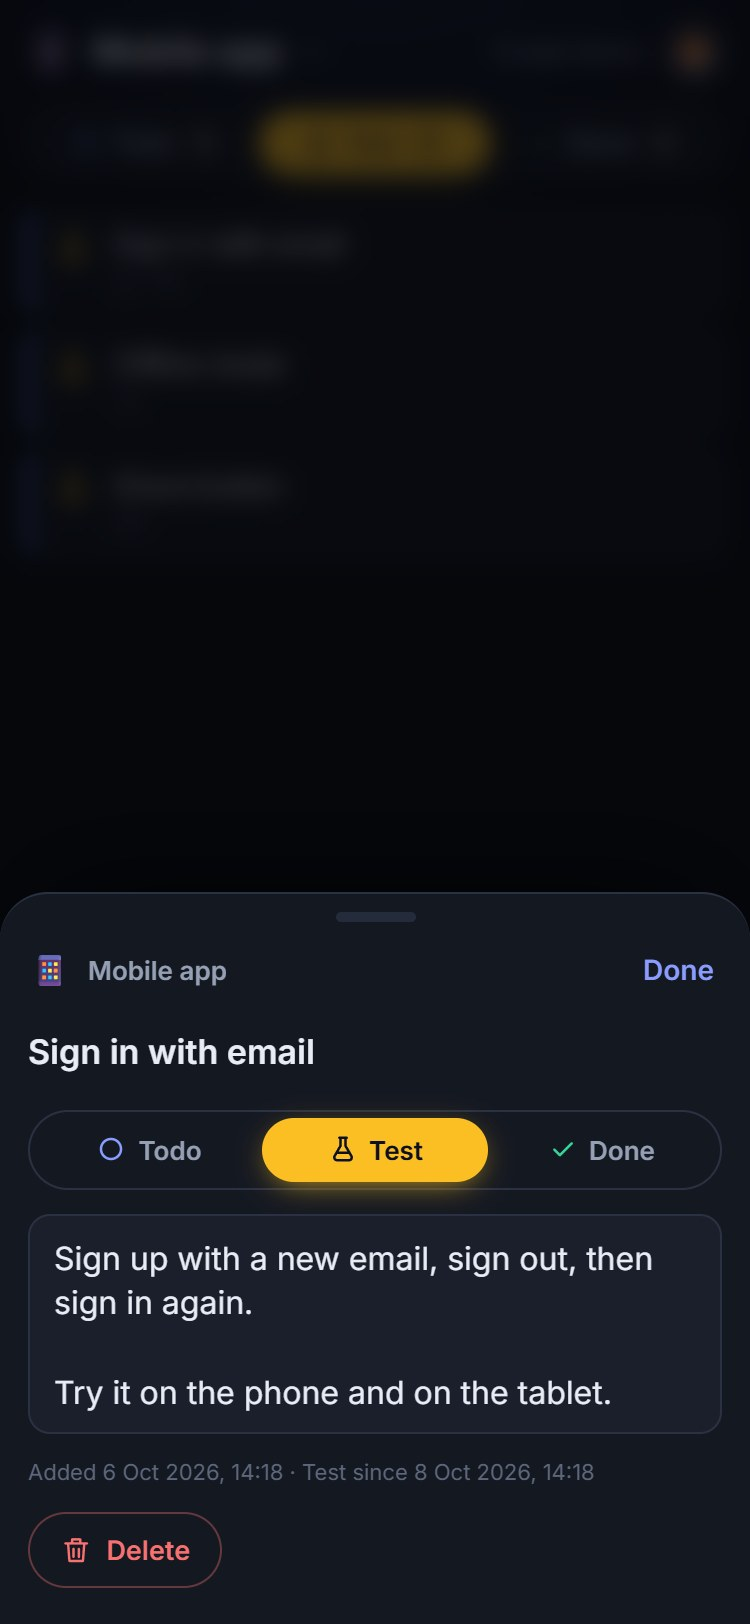
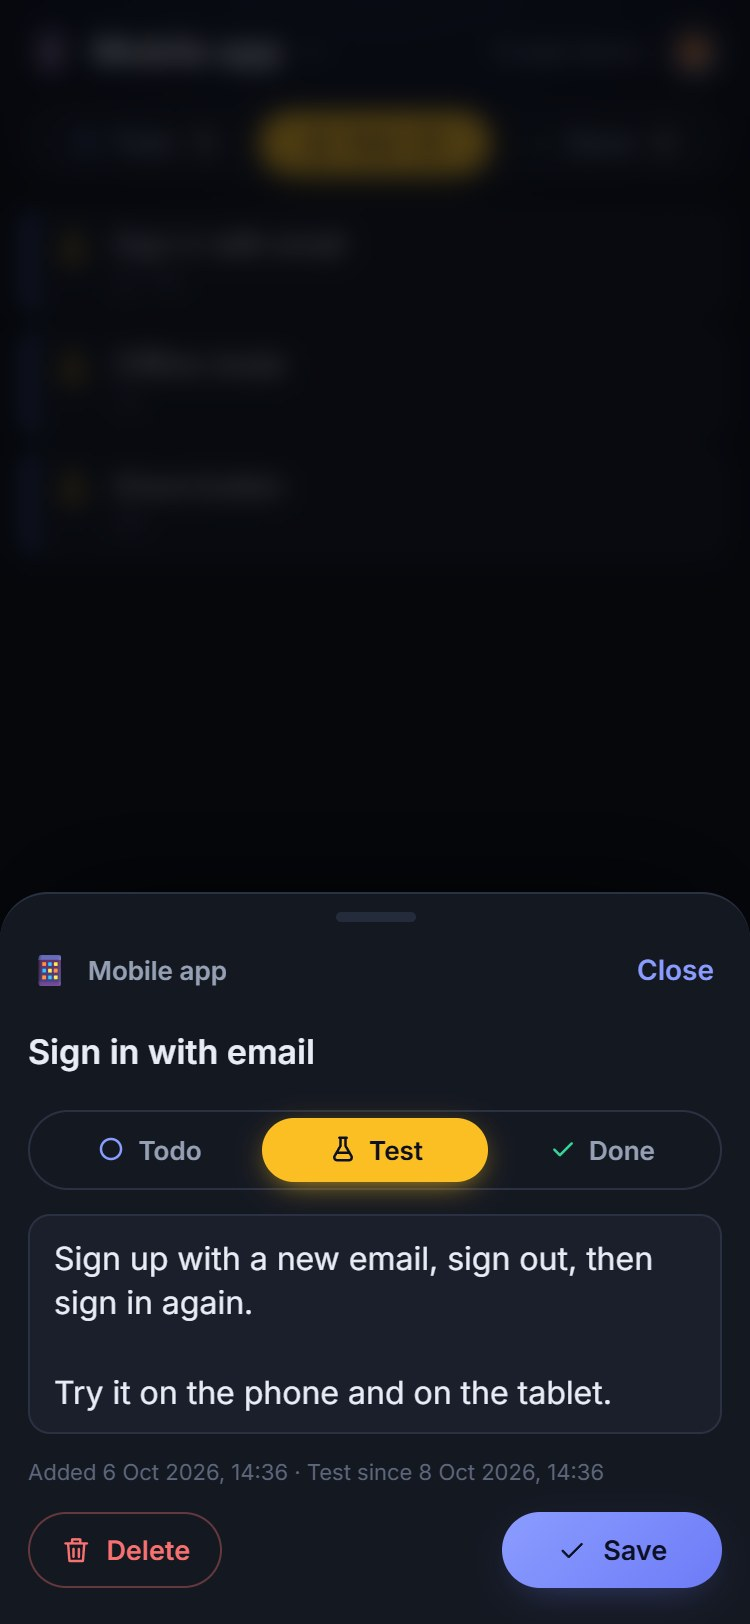
Bug fix

Changed region(s): [[0.368, 0.8929, 0.9813, 0.9852], [0.8587, 0.585, 0.92, 0.6158]]

diff --git a/project-tracker/public/js/tracker/item-sheet.js b/project-tracker/public/js/tracker/item-sheet.js
@@ -1,5 +1,6 @@
-// One item: what it says, its notes and its status (its project is shown, not changed here). Text and notes are saved
-// when the sheet closes (or the field loses focus); status and delete apply right away.
+// One item: what it says, its notes and its status (its project is shown, not changed here). Changes are kept in the
+// sheet until Save (bottom right) sends them all; Close, swiping down, back or Escape leave without saving.
+// Delete applies right away (after a second tap).
 import { sendAction } from '../shared/api.js';
 import { $, closest } from '../shared/dom.js';
 import { dateTime } from '../shared/format.js';
@@ -25,24 +26,17 @@ export function createItemSheet({ getItem, getProjects, onDeleted }) {
   const note = /** @type {HTMLTextAreaElement} */ ($('itemNote'));
   const remove = $('itemDelete');
   let itemId = null;
+  let status = 'todo';                             // the status picked here (saved with Save)
   let armed = false;
+  let saving = false;
 
-  const sheet = createSheet($('itemLayer'), { onClose: () => { save(); itemId = null; } });
-
-  let sent = { text: '', note: '' };               // what the server has (or was last sent), to send only changes
-
-  /** Sends what changed in the text fields. */
-  function save() {
-    if (!itemId || !getItem(itemId)) return;
-    const changes = {};
-    const newText = text.value.replace(/\s+/g, ' ').trim();
-    const newNote = note.value.trim();
-    if (newText && newText !== sent.text) changes.text = newText;
-    if (newNote !== sent.note) changes.note = newNote;
-    if (!Object.keys(changes).length) return;
-    sent = { ...sent, ...changes };
-    sendAction({ type: 'editItem', itemId, ...changes }).catch(toastError);
-  }
+  const sheet = createSheet($('itemLayer'), {
+    onClose: () => {
+      text.blur();
+      note.blur();
+      itemId = null;                               // not saved: what was changed is dropped
+    },
+  });
 
   function disarm() {
     armed = false;
@@ -50,13 +44,16 @@ export function createItemSheet({ getItem, getProjects, onDeleted }) {
     remove.innerHTML = `${icon('trash')}<span>Delete</span>`;
   }
 
-  /** Shows the item's current status and project (it may have changed on another screen). */
-  function render(item) {
+  function renderStatus() {
     for (const button of $('itemStatus').querySelectorAll('[data-status]')) {
-      const selected = button instanceof HTMLElement && button.dataset.status === item.status;
+      const selected = button instanceof HTMLElement && button.dataset.status === status;
       button.classList.toggle('selected', selected);
       button.setAttribute('aria-checked', String(selected));
     }
+  }
+
+  /** The item's project and dates (they can change on another screen; what's being edited here doesn't). */
+  function render(item) {
     const project = getProjects().find((p) => p.id === item.projectId);
     $('itemProjectEmoji').textContent = project?.emoji ?? '';
     $('itemProjectName').textContent = project?.name ?? '';
@@ -65,17 +62,42 @@ export function createItemSheet({ getItem, getProjects, onDeleted }) {
       : `Added ${dateTime(item.createdAt)} · ${statusLabel(item.status)} since ${dateTime(item.movedAt)}`;
   }
 
+  /** Sends what was changed (text, notes, status), then closes. Nothing changed: just closes. */
+  async function save() {
+    const item = itemId && getItem(itemId);
+    if (!item || saving) return;
+    const newText = text.value.replace(/\s+/g, ' ').trim();
+    if (!newText) {
+      toast('An item needs some text', { error: true });
+      return text.focus();
+    }
+    const changes = {};
+    if (newText !== item.text) changes.text = newText;
+    if (note.value.trim() !== item.note) changes.note = note.value.trim();
+    saving = true;
+    try {
+      if (Object.keys(changes).length) await sendAction({ type: 'editItem', itemId: item.id, ...changes });
+      if (status !== item.status) await sendAction({ type: 'setStatus', itemId: item.id, status });
+      sheet.close();
+    } catch (err) {
+      toastError(err);
+    } finally {
+      saving = false;
+    }
+  }
+
   $('itemStatus').addEventListener('click', (e) => {
     const button = closest(e, '[data-status]');
     if (!button || !itemId) return;
-    sendAction({ type: 'setStatus', itemId, status: button.dataset.status }).catch(toastError);
+    status = button.dataset.status;
+    renderStatus();
   });
+
+  $('itemSave').addEventListener('click', save);
 
   text.addEventListener('input', () => fit(text));
   note.addEventListener('input', () => fit(note));
-  text.addEventListener('blur', save);
-  note.addEventListener('blur', save);
-  // Enter in the title finishes it (it's one line, however long); Shift+Enter is not needed there
+  // Enter in the title finishes it (it's one line, however long)
   text.addEventListener('keydown', (e) => {
     if (e.key === 'Enter') {
       e.preventDefault();
@@ -92,7 +114,6 @@ export function createItemSheet({ getItem, getProjects, onDeleted }) {
       remove.innerHTML = `${icon('trash')}<span>Tap again to delete</span>`;
       return;
     }
-    itemId = null;                                 // nothing left to save on close
     sheet.close();
     sendAction({ type: 'removeItem', itemId: item.id })
       .then(() => onDeleted(item))
@@ -107,9 +128,11 @@ export function createItemSheet({ getItem, getProjects, onDeleted }) {
       itemId = id;
       text.value = item.text;
       note.value = item.note;
-      sent = { text: item.text, note: item.note };
+      status = item.status;
       disarm();
+      renderStatus();
       render(item);
+      $('itemSave').innerHTML = `${icon('check')}<span>Save</span>`;
       sheet.open();
       requestAnimationFrame(() => {
         fit(text);
@@ -117,7 +140,7 @@ export function createItemSheet({ getItem, getProjects, onDeleted }) {
       });
     },
 
-    /** After a change: shows the latest, or closes if the item was deleted (e.g. on another screen). */
+    /** After a change: the latest project name and dates, or closes if the item was deleted (e.g. on another screen). */
     refresh() {
       if (!itemId || !sheet.isOpen) return;
       const item = getItem(itemId);

diff --git a/project-tracker/public/index.html b/project-tracker/public/index.html
@@ -87,7 +87,7 @@
       <div class="grabber" data-drag data-close></div>
       <div class="sheet-head" data-drag>
         <h2 class="sheet-title" id="addTitle"><span class="project-emoji" id="addEmoji"></span><span id="addProject"></span></h2>
-        <button type="button" class="sheet-close" data-close>Done</button>
+        <button type="button" class="sheet-close" data-close>Close</button>
       </div>
       <form class="sheet-body" id="addForm" autocomplete="off">
         <div class="segmented" id="addStatus" role="radiogroup" aria-label="Add to">
@@ -110,7 +110,7 @@
       <div class="grabber" data-drag data-close></div>
       <div class="sheet-head" data-drag>
         <p class="item-project"><span class="project-emoji" id="itemProjectEmoji"></span><span id="itemProjectName"></span></p>
-        <button type="button" class="sheet-close" data-close>Done</button>
+        <button type="button" class="sheet-close" data-close>Close</button>
       </div>
       <div class="sheet-body">
         <textarea class="item-text-input" id="itemText" rows="1" maxlength="300" aria-label="What"></textarea>
@@ -122,7 +122,10 @@
         <textarea class="item-note-input" id="itemNote" rows="3" maxlength="2000"
           placeholder="Notes: how to test it, links, anything…" aria-label="Notes"></textarea>
         <p class="item-dates" id="itemDates"></p>
-        <button type="button" class="pill danger" id="itemDelete"></button>
+        <div class="item-actions">
+          <button type="button" class="pill danger" id="itemDelete"></button>
+          <button type="button" class="pill primary" id="itemSave"></button>
+        </div>
       </div>
     </section>
   </div>

diff --git a/project-tracker/public/css/tracker.css b/project-tracker/public/css/tracker.css
@@ -435,7 +435,9 @@ button.advance:active { transform: scale(0.85); background: var(--surface-3); }
 .item-note-input::placeholder, .text-input::placeholder { color: var(--faint); }
 
 .item-dates { margin: 0; color: var(--faint); font-size: 11px; }
-#itemDelete { align-self: flex-start; }
+/* Delete on the left, Save on the right (js/tracker/item-sheet.js: nothing is saved until Save) */
+.item-actions { display: flex; align-items: center; justify-content: space-between; gap: 10px; }
+#itemSave { min-width: 110px; }
 
 .project-emoji { flex: none; font-size: 18px; line-height: 1; font-weight: 400; }
 .switch-pick .project-emoji { display: grid; place-items: center; width: 34px; height: 34px; border-radius: 10px; background: var(--surface-3); font-size: 19px; }

diff --git a/project-tracker/public/js/tracker/add-sheet.js b/project-tracker/public/js/tracker/add-sheet.js
@@ -54,7 +54,7 @@ export function createAddSheet({ getProjects, onAdded }) {
       await sendAction({ type: 'addItem', projectId: project.id, text, status });
       input.value = '';
       added++;
-      $('addHint').textContent = `Added ${added}. Type the next one, or tap Done.`;
+      $('addHint').textContent = `Added ${added}. Type the next one, or tap Close.`;
       onAdded(status);
     } catch (err) {
       toastError(err);

diff --git a/project-tracker/DOCS.md b/project-tracker/DOCS.md
@@ -34,8 +34,8 @@ Every item is in one of three lists:
 Tap the round button in front of an item to move it to the next list: Todo → Test → Done.
 A message at the bottom offers **Undo** for a few seconds; tap the message to dismiss it.
 
-Tap the item itself to open it: change its text, add notes (how to test it, a link, …), move it to any list
-(e.g. back to Todo when a test fails), or delete it.
+Tap the item itself to open it: change its text, add notes (how to test it, a link, …), or move it to any list
+(e.g. back to Todo when a test fails), then tap **Save**. **Close** leaves without saving. **Delete** removes it.
 
 ## Adding things quickly
 
@@ -43,7 +43,7 @@ The round **+** at the bottom right opens a small sheet that adds to **the proje
 **Test** at the top: it starts on the tab you're looking at (Todo when you're on Done).
 
 Type and press Enter: it's added, and the field clears for the next one, so you can add several in a row.
-Tap **Done** (or swipe the sheet down) when you're finished. On a PC, press **n** (or **+**) to open it and Escape to close it.
+Tap **Close** (or swipe the sheet down) when you're finished. On a PC, press **n** (or **+**) to open it and Escape to close it.
 
 ## Projects
 

diff --git a/project-tracker/CHANGELOG.md b/project-tracker/CHANGELOG.md
@@ -4,6 +4,7 @@
 - Messages show at the bottom, and a tap dismisses them
 - Shorter home screen text
 - Clearer emoji field hint
+- Item changes are saved with a Save button
 - Fix: the app opens on the project you were on last
 - Fix: iPhone + button
 - Fix: tab counts alignment
